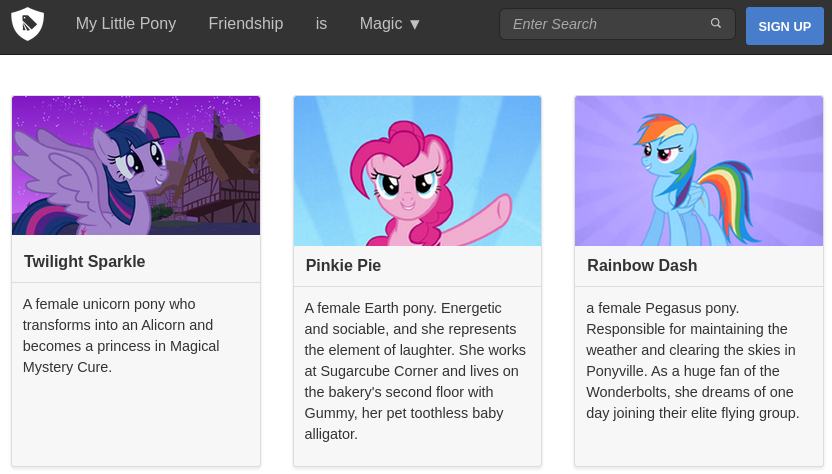
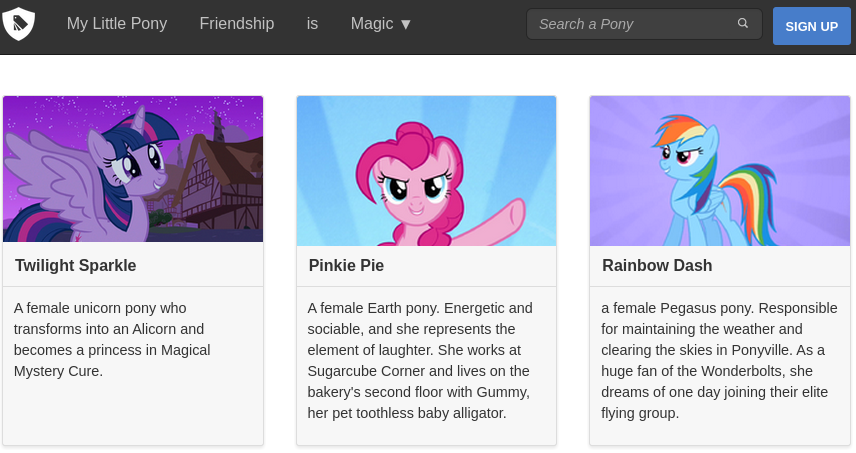
screenshot

diff --git a/index.html b/index.html
@@ -41,7 +41,7 @@
         <div class="navigation-tools">
           <div class="search-bar">
             <form role="search">
-              <input type="search" placeholder="Enter Search" />
+              <input type="search" placeholder="Search a Pony" />
               <button type="submit">
                 <img src="https://raw.githubusercontent.com/thoughtbot/refills/master/source/images/search-icon.png" alt="Search Icon">
               </button>
